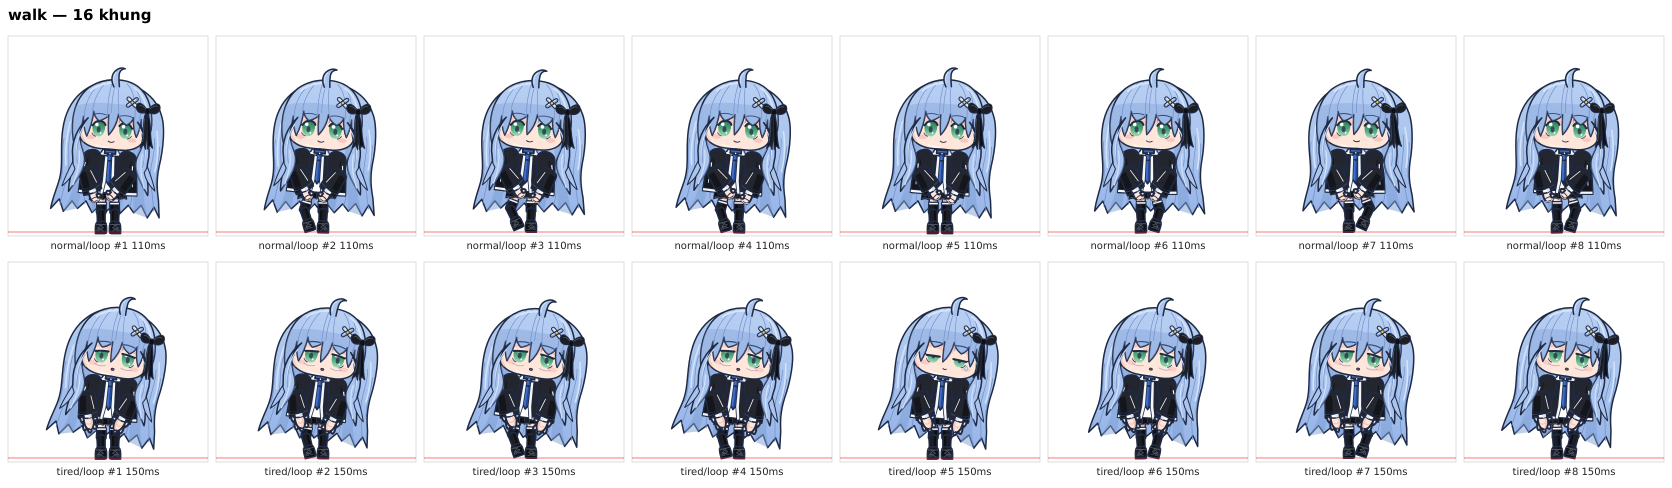
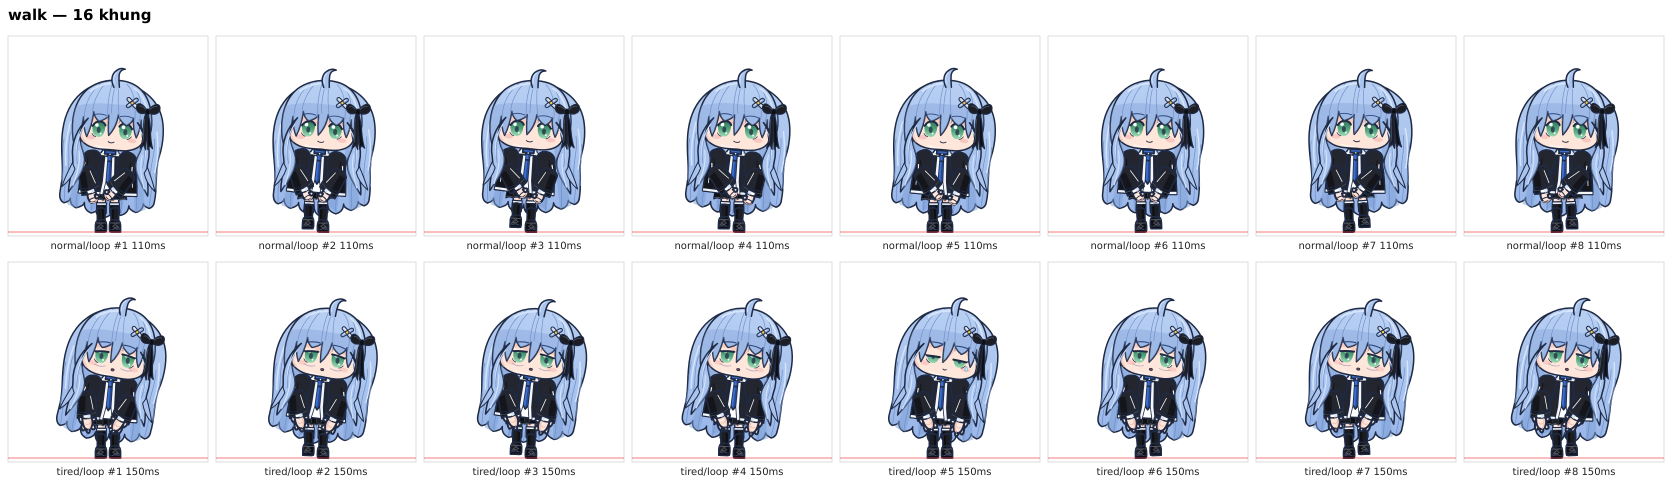
art(action): walk, land sửa vòng 1
Claude-Session: https://claude.ai/code/session_01FvidWoeLaFPFz5tGxdbyt5

diff --git a/tools/rig/actions/walk.js b/tools/rig/actions/walk.js
@@ -14,22 +14,21 @@ function mood(cfg) {
     const lift = (u) => { const x = ((u % 1) + 1) % 1; return x < 0.5 ? Math.sin(Math.PI * x / 0.5) : 0; };
     const lAL = lift(t);        // trái nhấc đỉnh ở khung 3
     const lAR = lift(t - 0.5);  // phải nhấc đỉnh ở khung 7
-    // chân nhấc: đùi xoay ra ngoài (trái +, phải -), ống gập; chân chạm: xoạc nhẹ, ống bù để đế vẫn dưới hông
-    const sp = cfg.spread * (1 - Math.max(lAL, lAR));
-    const aL = cfg.legA * lAL + sp, sL = -cfg.legS * lAL - sp * 0.9;
-    const aR = -cfg.legA * lAR - sp, sR = cfg.legS * lAR + sp * 0.9;
-    const stand = Math.max(footY(aL, sL), footY(aR, sR));
-    const bob = Math.cos(2 * ph);                // 1 ở khung chạm, -1 ở khung nhấc
-    const hy = (REST - stand) + cfg.bob * (1 + bob) / 2;
+    // chân nhấc gần thẳng đứng: đùi xoay nhỏ, ống dịch lên (shin.y) để bàn chân nhấc tại đúng cột x của nó
+    const bob = Math.cos(2 * ph);                // 1 ở khung đặt chân, -1 ở khung nhấc
+    const hy = cfg.bob * (1 + bob) / 2;          // hạ 0..bob khi đặt chân
+    const sy_l = -(hy + cfg.lift * lAL), sy_r = -(hy + cfg.lift * lAR);
+    const aL = cfg.legA * lAL, aR = -cfg.legA * lAR;
+    const sL = -aL * 0.5, sR = -aR * 0.5;
     const sway = Math.sin(ph * 2);               // lắc theo bước
     const armL = Math.sin(ph - Math.PI / 4);     // tay đối nghịch chân
     const lag = Math.sin(ph * 2 - 1.0);
     const bones = {
       hips: { y: r1(hy), x: r1(cfg.hipX * Math.sin(ph)), r: r1(cfg.hipR * Math.sin(ph)) },
       chest: { r: r1(cfg.lean + 1.2 * Math.sin(ph)), sy: r1(1 + 0.012 * bob), sx: r1(1 - 0.006 * bob) },
-      head: { r: r1(cfg.headR - 1.3 * Math.sin(ph)), y: r1(cfg.headY), x: r1(cfg.headX) },
-      thigh_l: { r: r1(aL) }, shin_l: { r: r1(sL) },
-      thigh_r: { r: r1(aR) }, shin_r: { r: r1(sR) },
+      head: { r: r1(cfg.headR - 2 * Math.sin(ph)), y: r1(cfg.headY), x: r1(cfg.headX) },
+      thigh_l: { r: r1(aL) }, shin_l: { r: r1(sL), y: r1(sy_l) },
+      thigh_r: { r: r1(aR) }, shin_r: { r: r1(sR), y: r1(sy_r) },
       hair_back: { r: r1(-2.2 * cfg.hair - 2.0 * cfg.hair * lag) },
       sidelock_l: { r: r1(-3 * cfg.hair - 2 * lag * cfg.hair) },
       sidelock_r: { r: r1(-3 * cfg.hair - 2 * lag * cfg.hair) },
@@ -45,13 +44,13 @@ function mood(cfg) {
   return { loop: frames };
 }
 
-const base = { ms: 110, face: 'normal', legA: 18, legS: 40, spread: 5, stance: 0, bob: 3, hipX: 1.5, hipR: 1.2, lean: 3.5, headR: 1.5, headY: 0, headX: 0,
-  hair: 1, ahoge: 0, ua: 12, fa: 20, armSwing: 8, handV: 'hold' };
+const base = { ms: 110, face: 'normal', legA: 3, lift: 9, bob: 4, hipX: 1.5, hipR: 1.2, lean: 3.5, headR: 1.5, headY: 0, headX: 0,
+  hair: 1, ahoge: 0, ua: 12, fa: 20, armSwing: 12, handV: 'hold' };
 
 module.exports = {
   action: 'walk',
   moods: {
     normal: mood({ ...base }),
-    tired: mood({ ...base, ms: 150, face: 'tired', blink: 'sleepy', legA: 13, legS: 30, spread: 4, bob: 2, lean: 5, headR: 5, headY: 3, ua: 6, fa: 12, armSwing: 5, hair: 0.7, ahoge: 6, handV: 'open' }),
+    tired: mood({ ...base, ms: 150, face: 'tired', blink: 'sleepy', legA: 2, lift: 7, bob: 3, lean: 5, headR: 5, headY: 3, ua: 6, fa: 12, armSwing: 8, hair: 0.7, ahoge: 6, handV: 'open' }),
   },
 };

diff --git a/tools/rig/actions/land.js b/tools/rig/actions/land.js
@@ -16,7 +16,7 @@ const hold = { hand_l: 'hold', hand_r: 'hold' };
 function frame(ms, face, a, s, o) {
   const L = legs(a, s);
   const bones = {
-    hips: { y: r1(L.hipsY) },
+    hips: { y: r1(L.hipsY + (o.dy || 0)) },
     thigh_l: L.thigh_l, shin_l: L.shin_l, thigh_r: L.thigh_r, shin_r: L.shin_r,
     chest: { sy: o.chestSy || 1, sx: o.chestSx || 1, r: o.chestR || 0 },
     head: { r: o.headR || 0, y: o.headY || 0 },
@@ -29,6 +29,7 @@ function frame(ms, face, a, s, o) {
   if (o.show) f.show = o.show;
   return f;
 }
+const DUST = !process.env.NODUST;
 const dust = (id) => ({ id, file: 'fx/' + id + '.svg', bone: 'canvas', z: 210 });
 
 module.exports = {
@@ -36,15 +37,15 @@ module.exports = {
   moods: {
     normal: {
       single: [
-        frame(60, 'wince', 25, -55, { chestSy: 0.97, headY: 1, hbSy: 1.03, hbR: 3, slR: -4, ahR: -8, rbR: -5,
+        frame(60, 'wince', 25, -55, { dy: -4, chestSy: 0.97, headY: 1, hbSy: 1.03, hbR: 3, slR: -4, ahR: -8, rbR: -5,
           arms: { upper_arm_l: { r: -22 }, forearm_l: { r: -20 }, upper_arm_r: { r: 22 }, forearm_r: { r: 20 } } }),
-        frame(80, 'wince', 50, -95, { chestSy: 0.92, chestSx: 1.03, headY: 2, hbSy: 1.05, hbSx: 1.04, hbR: 5, slR: -6, ahR: -12, rbR: -8,
+        frame(80, 'wince', 40, -75, { dy: -5, chestSy: 0.92, chestSx: 1.03, headY: 2, hbSy: 1.05, hbSx: 1.04, hbR: 5, slR: -6, ahR: -12, rbR: -8,
           arms: { upper_arm_l: { r: 25 }, forearm_l: { r: 5 }, upper_arm_r: { r: -25 }, forearm_r: { r: -5 } },
-          show: [dust('dust')] }),
-        frame(90, 'surprised', 18, -40, { chestSy: 0.99, chestR: -2, hbSy: 1.02, hbR: -3, slR: 3, ahR: 8, rbR: 4,
+          show: DUST ? [dust('dust')] : undefined }),
+        frame(90, 'surprised', 18, -40, { dy: -3, chestSy: 0.99, chestR: -2, hbSy: 1.02, hbR: -3, slR: 3, ahR: 8, rbR: 4,
           arms: { upper_arm_l: { r: 50 }, forearm_l: { r: 10 }, upper_arm_r: { r: -50 }, forearm_r: { r: -10 } },
-          swap: { hand_l: 'open', hand_r: 'open' }, show: [dust('dust2')] }),
-        frame(100, 'normal', 5, -10, { chestR: 1, headR: -6, hbR: 2, slR: -2, ahR: -4,
+          swap: { hand_l: 'open', hand_r: 'open' }, show: DUST ? [dust('dust2')] : undefined }),
+        frame(100, 'normal', 5, -10, { dy: -1, chestR: 1, headR: -6, hbR: 2, slR: -2, ahR: -4,
           arms: { upper_arm_l: { r: -18 }, forearm_l: { r: -28 }, upper_arm_r: { r: 18 }, forearm_r: { r: 28 } } }),
         frame(160, 'normal', 0, 0, { chestSy: 0.9865, chestSx: 1.004, headY: -0.3 }),
       ],
